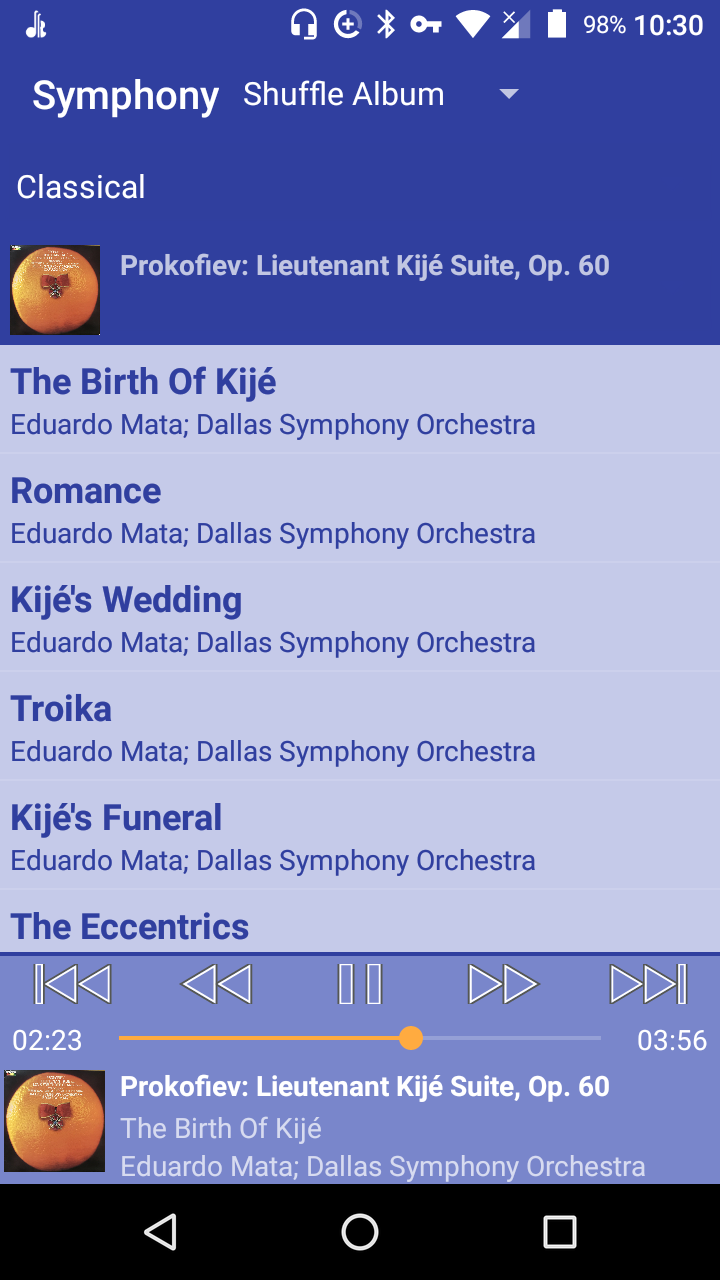
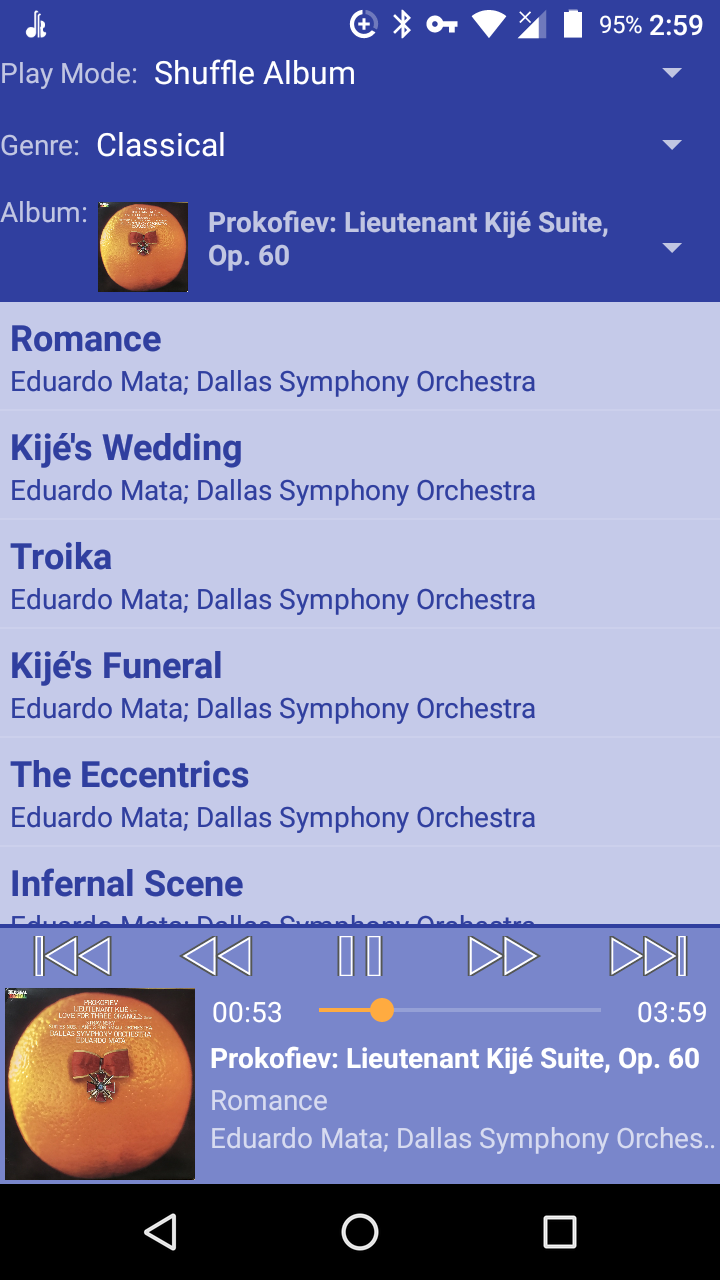
Update change log and screen shots

Changed region(s): [[0.0, 0.0, 1.0, 0.9375], [0.9167, 0.0938, 0.9472, 0.125]]

diff --git a/CHANGELOG.md b/CHANGELOG.md
@@ -9,6 +9,7 @@ and this project adheres to [Semantic Versioning](http://semver.org/spec/v2.0.0.
 - Not applicable
 
 ### Changed
+- Improve appearance of user interface.
 - Updated screenshots
 
 ### Removed
